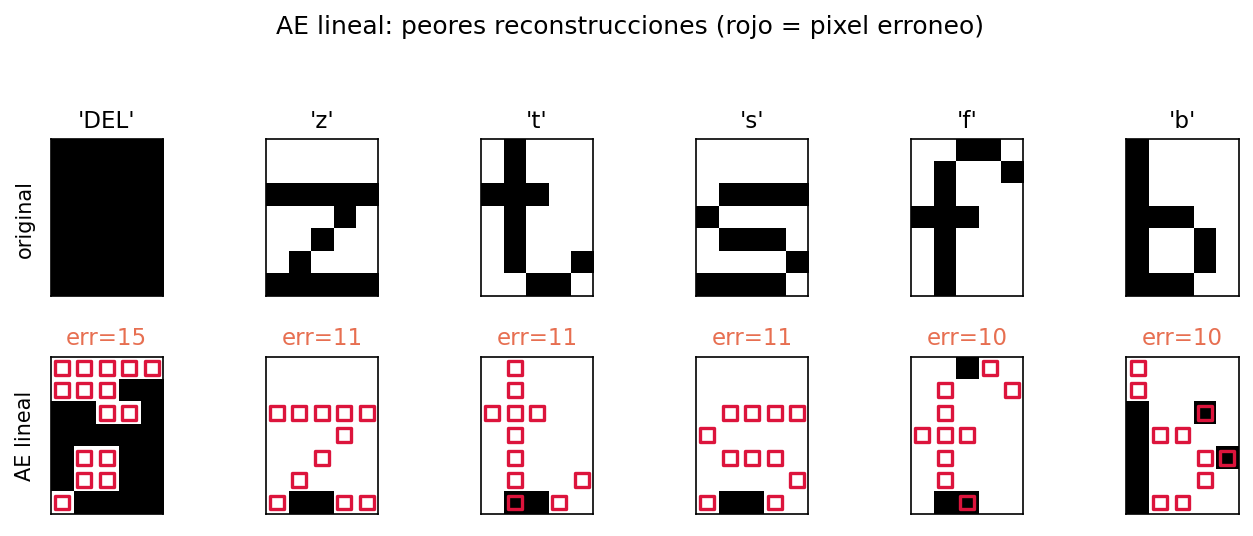
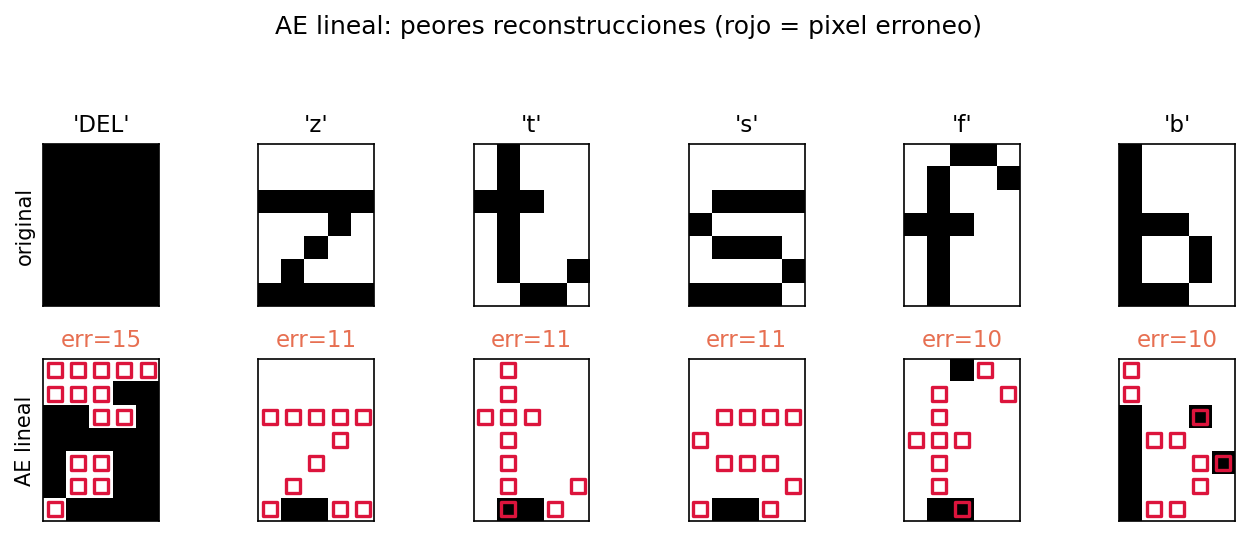
comprare pca with lineal ae

diff --git a/ej1/experiments/linear_ae_vs_pca.py b/ej1/experiments/linear_ae_vs_pca.py
@@ -18,6 +18,8 @@ la profundidad, asi que [35, 2, 35] no pierde generalidad como "AE lineal".
 Genera (en ej1/results/basic/):
   - exp_linear_ae.png       : max pixel-error del AE lineal por seed (panel unico)
   - exp_linear_ae_worst.png : las 6 letras peor reconstruidas (error en rojo)
+  - exp_linear_ae_latent.png: latente 2D aprendido por el AE lineal (seed 0)
+  - exp_linear_ae_vs_pca_latent.png: AE lineal vs PCA, lado a lado
   - exp_linear_ae.csv       : tabla seed -> max/mean pixel-error, rec_MSE (incluye
                               fila PCA; rec_MSE coincide => el AE lineal == PCA)
 
@@ -141,6 +143,38 @@ def fig_worst_letters(X, labels, rec, k, path):
     save_fig(fig, path)
 
 
+def _annotated_scatter(ax, Z, labels, color, title, xlabel="z1", ylabel="z2"):
+    ax.scatter(Z[:, 0], Z[:, 1], c=color, s=60, alpha=0.65,
+               edgecolors="k", linewidths=0.5, zorder=2)
+    for i, lab in enumerate(labels):
+        ax.annotate(lab, (Z[i, 0], Z[i, 1]), fontsize=10, fontweight="bold",
+                    ha="center", va="center", zorder=3)
+    ax.set_title(title)
+    ax.set_xlabel(xlabel)
+    ax.set_ylabel(ylabel)
+    ax.grid(True, alpha=0.3)
+
+
+def fig_linear_latent(Z_lin, labels, path):
+    fig, ax = plt.subplots(figsize=(8, 7))
+    _annotated_scatter(ax, Z_lin, labels, PALETTE["negative"],
+                       "Espacio latente 2D del AE lineal")
+    fig.tight_layout()
+    save_fig(fig, path)
+
+
+def fig_linear_vs_pca_latent(Z_lin, pcs, var_ratio, labels, path):
+    fig, (ax1, ax2) = plt.subplots(1, 2, figsize=(13.5, 6.2))
+    _annotated_scatter(ax1, Z_lin, labels, PALETTE["negative"], "AE lineal (seed 0)")
+    _annotated_scatter(ax2, pcs, labels, PALETTE["accent"], "PCA 2D",
+                       xlabel=f"PC1 ({var_ratio[0]*100:.1f}% var)",
+                       ylabel=f"PC2 ({var_ratio[1]*100:.1f}% var)")
+    fig.suptitle("AE lineal vs PCA: subespacio equivalente, coordenadas no identicas",
+                 fontsize=13, y=0.98)
+    fig.tight_layout(rect=[0, 0, 1, 0.96])
+    save_fig(fig, path)
+
+
 def main():
     t0 = time.time()
     X, labels = load_font()
@@ -152,12 +186,15 @@ def main():
 
     # AE lineal por seed
     rows, seed_max, seed_mse = [], [], []
+    ae_seed0 = None
     for seed in SEEDS:
         t = time.time()
-        _, _, s, mse, rec = train_linear(X, seed)
+        ae, _, s, mse, rec = train_linear(X, seed)
         seed_max.append(s["max"])
         seed_mse.append(mse)
         rows.append((seed, s["max"], s["mean"], s["n_exact"], mse))
+        if seed == SEEDS[0]:
+            ae_seed0 = ae
         print(f"[AE lineal seed={seed}] max={s['max']} mean={s['mean']:.3f} "
               f"exactas={s['n_exact']}/32 rec_MSE={mse:.4f} ({time.time()-t:.0f}s)",
               flush=True)
@@ -171,6 +208,13 @@ def main():
 
     fig_results(seed_max, os.path.join(OUT, "exp_linear_ae.png"))
     fig_worst_letters(X, labels, pca_rec, 6, os.path.join(OUT, "exp_linear_ae_worst.png"))
+    if ae_seed0 is not None:
+        Z_lin = ae_seed0.encode(X)
+        fig_linear_latent(Z_lin, labels, os.path.join(OUT, "exp_linear_ae_latent.png"))
+        fig_linear_vs_pca_latent(
+            Z_lin, pcs, var_ratio, labels,
+            os.path.join(OUT, "exp_linear_ae_vs_pca_latent.png")
+        )
 
     with open(os.path.join(OUT, "exp_linear_ae.csv"), "w", newline="") as f:
         w = csv.writer(f)
